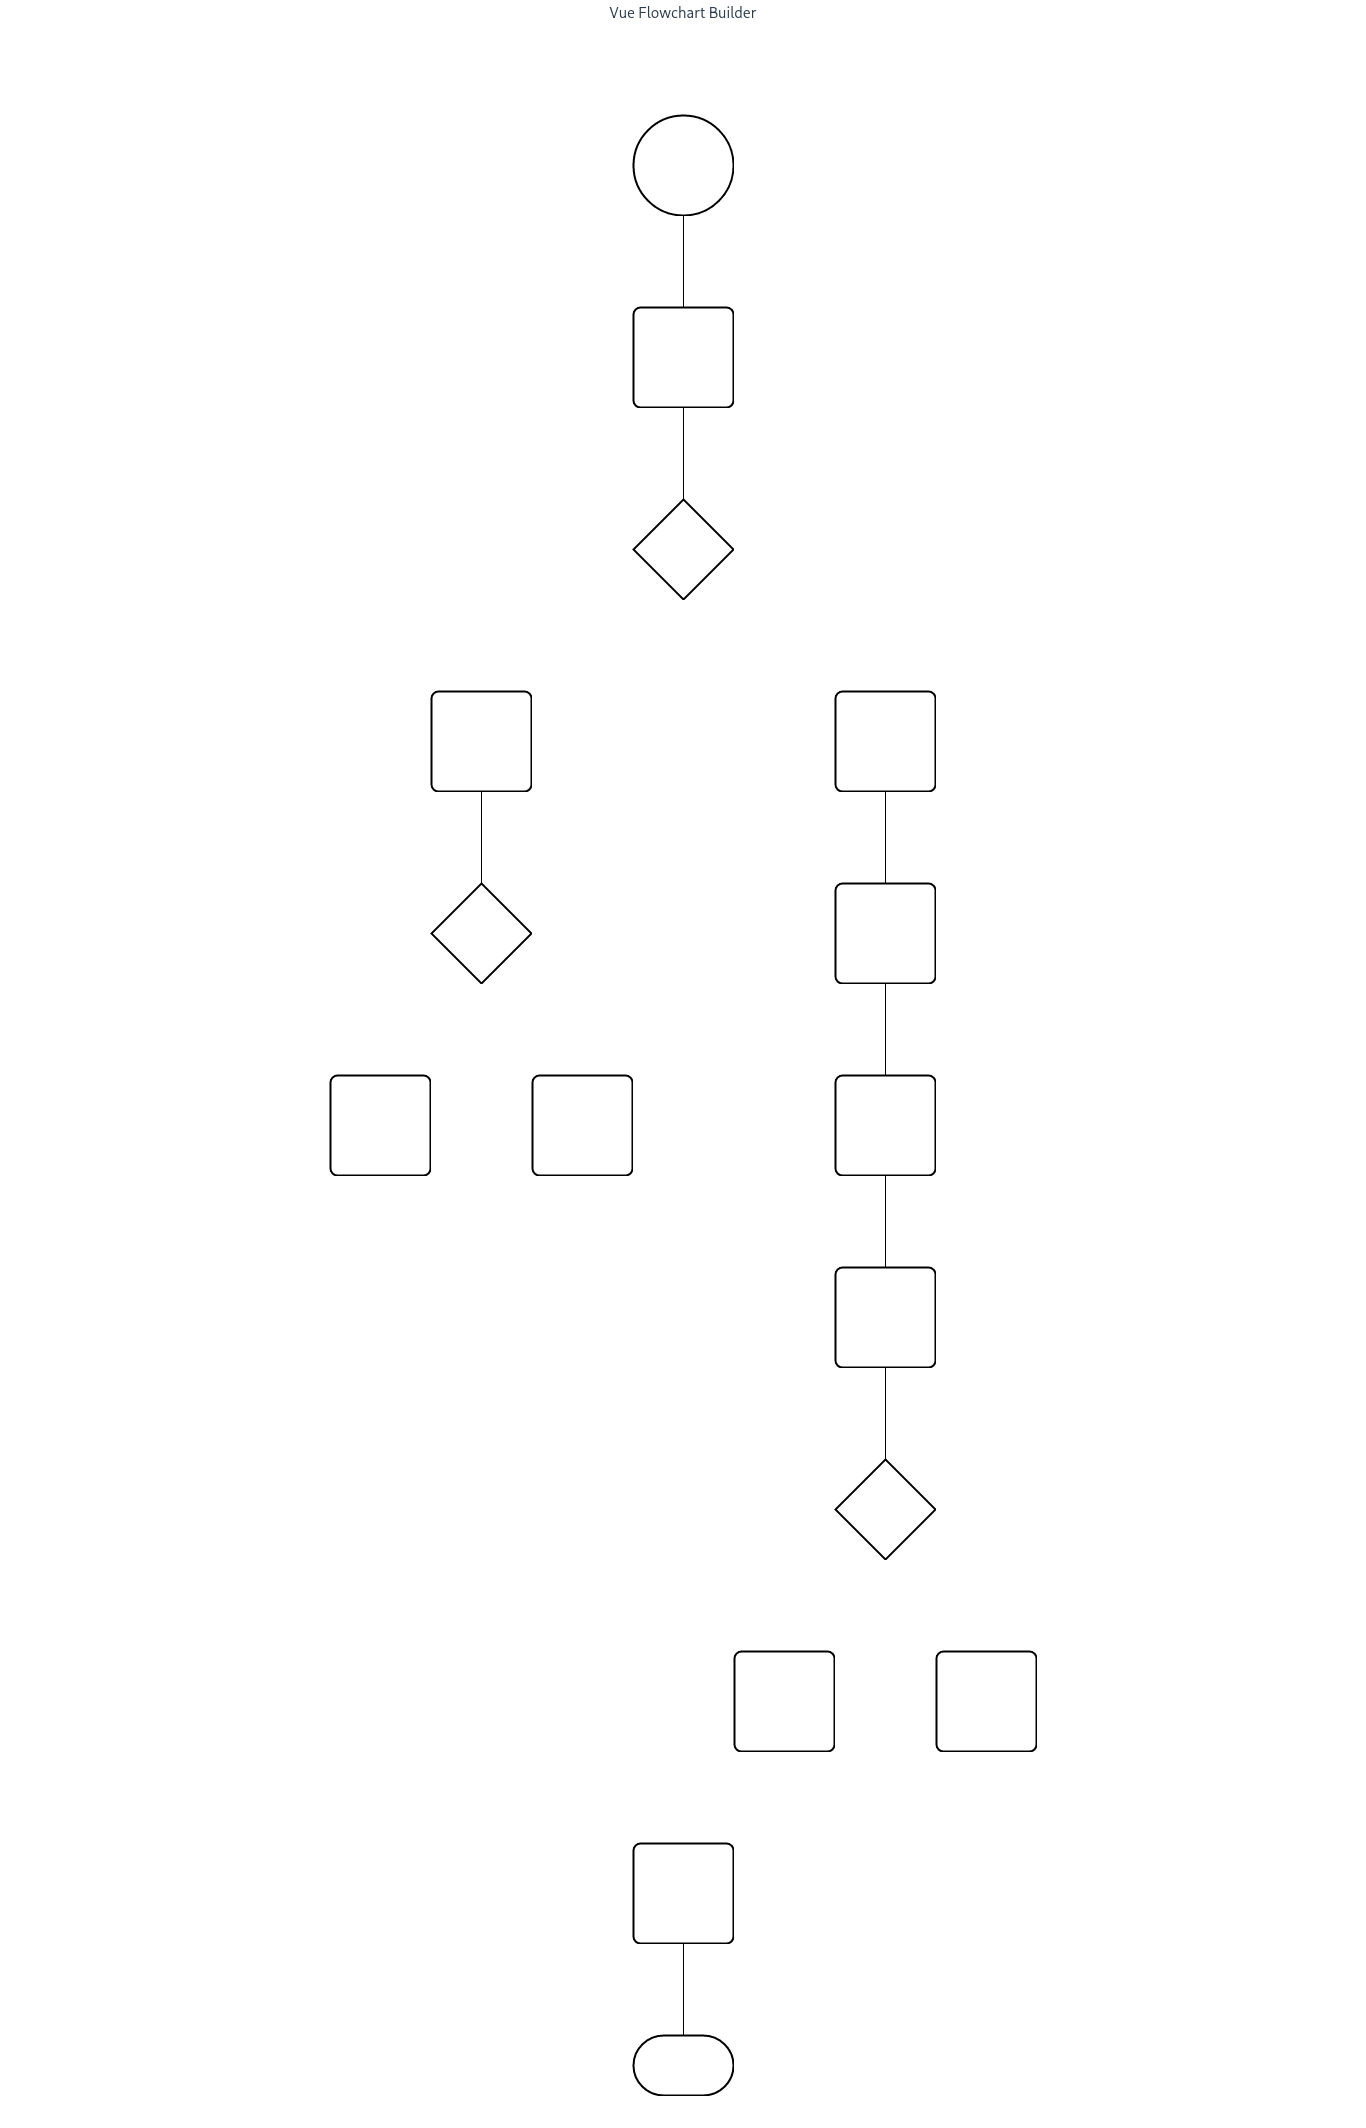
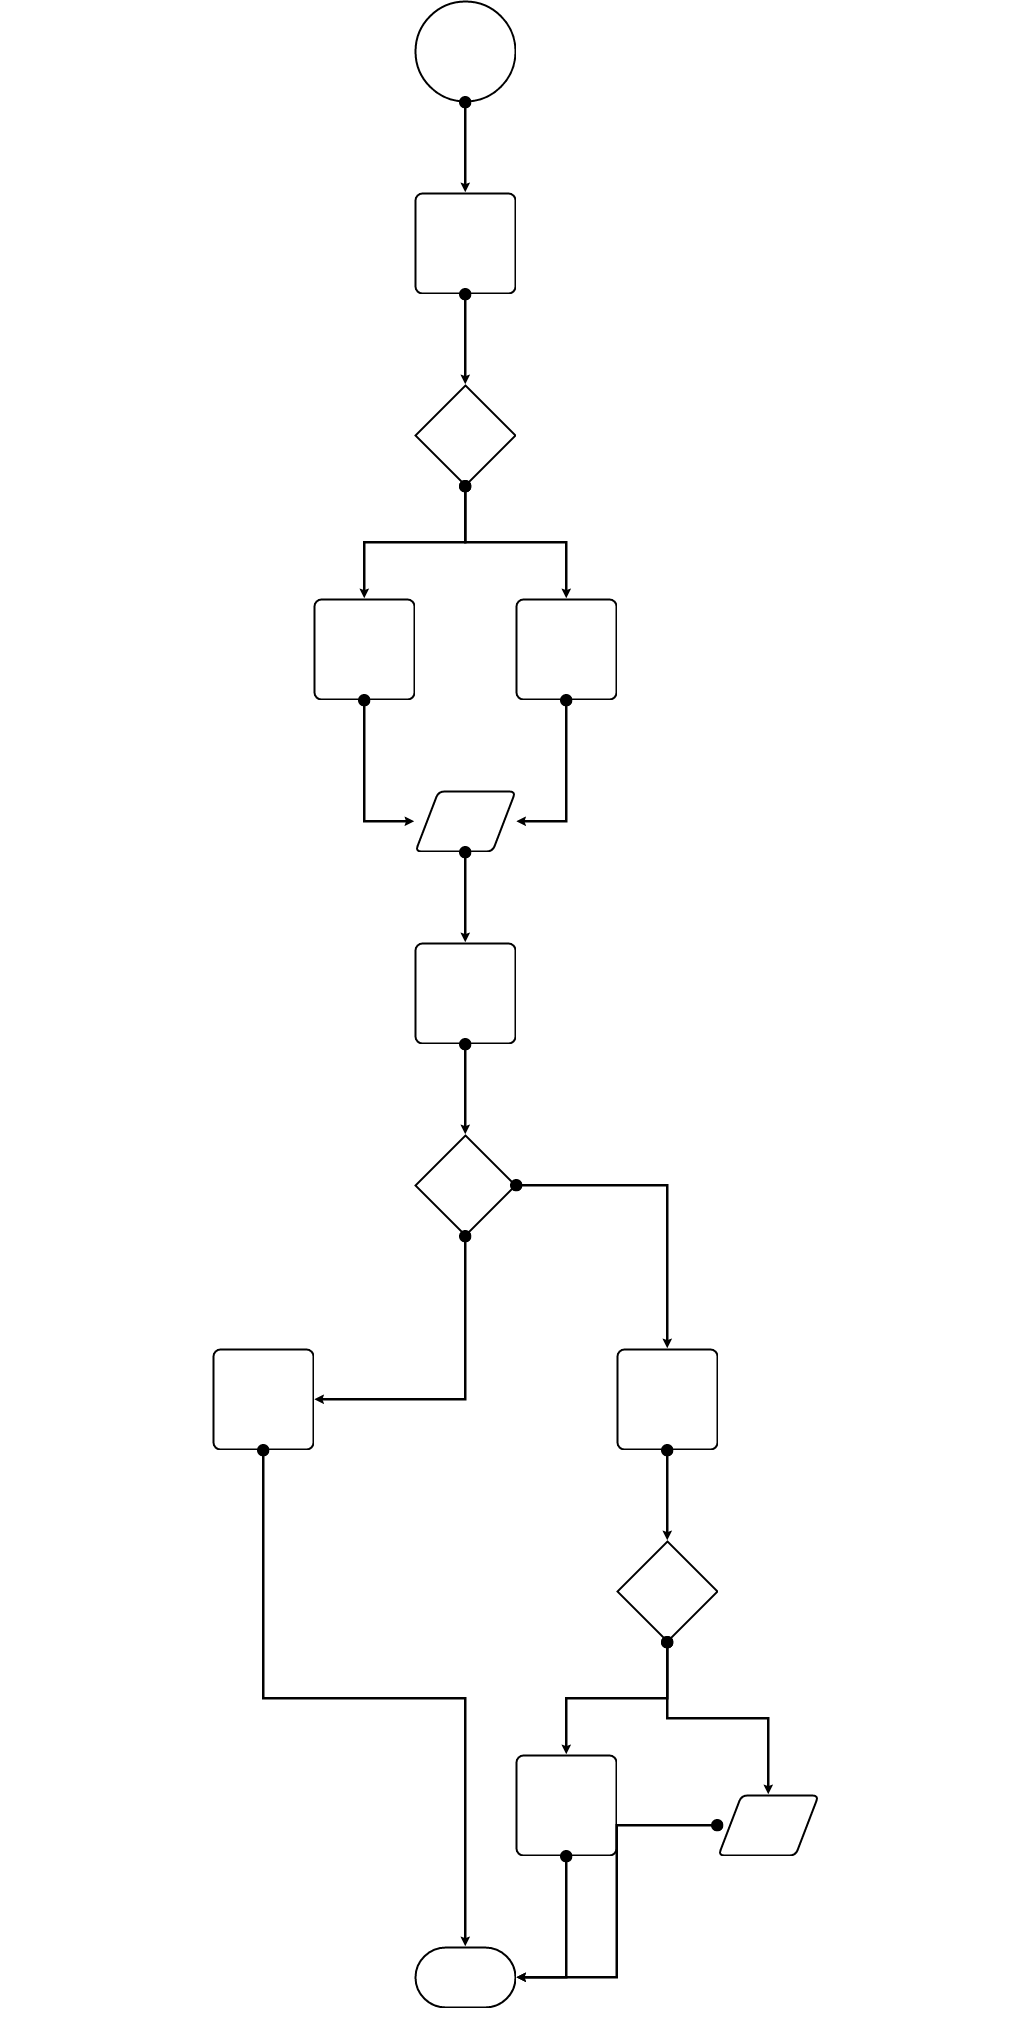
Fix: allow decision/group to add siblings, update readme, screenshot

diff --git a/src/components/FlowGroup.vue b/src/components/FlowGroup.vue
@@ -1,5 +1,5 @@
 <script setup>
-import { markRaw, toRefs, onMounted } from "vue";
+import { markRaw, toRefs } from "vue";
 import { v4 as uuidv4 } from "uuid";
 
 import { SYMBOLTYPES } from "@/helpers/const/SymbolTypes";
@@ -27,8 +27,14 @@ const props = defineProps({
   isGroupSiblingContainer: Boolean,
 });
 
-const emit = defineEmits(["update:schema", "remove-sibling-group", "remove-children-group", "add-children-group"]);
-
+const emit = defineEmits([
+  "update:schema",
+  "remove-sibling-group",
+  "remove-children-group",
+  "add-children-group",
+  "add-group",
+  "add-sibling",
+]);
 const { schema, isGroupSiblingContainer, index } = toRefs(props);
 
 const addSibling = ({ singleSchema, options }) => {
@@ -53,7 +59,7 @@ const addSibling = ({ singleSchema, options }) => {
     emit("update:schema", updated_schema);
     return;
   }
-  // otherwise
+
   updated_schema.sibling.splice(options.index + 1, 0, singleSchema);
   emit("update:schema", updated_schema);
 };
@@ -131,7 +137,7 @@ const removeChildrenGroup = (itemIndex) => {
 };
 
 // add children for the current group type (happens in the current component/ not delegated)
-const addChildrenGroupLocal = ({ symbolType }) => {
+const addChildrenLocal = ({ symbolType }) => {
   const group = {
     type: "group",
     schema: {
@@ -155,6 +161,46 @@ const addChildrenGroupLocal = ({ symbolType }) => {
     updated_schema.children.push(single);
   }
   emit("update:schema", updated_schema);
+};
+
+// delegate/emit event one step above (or it's parent)
+const addSiblingLocal = ({ symbolType }) => {
+  const options = {
+    schema: props.schema,
+    index: props.index,
+    type: props.type,
+    depth: props.depth,
+  };
+
+  const single = {
+    type: "single",
+    schema: {
+      symbol: symbolType,
+      id: uuidv4(),
+    },
+  };
+  emit("add-sibling", { singleSchema: single, options });
+};
+
+// delegate/emit event one step above (or it's parent)
+const addGroupLocal = ({ symbolType }) => {
+  const options = {
+    schema: props.schema,
+    index: props.index,
+    type: props.type,
+    depth: props.depth,
+  };
+
+  const group = {
+    type: "group",
+    schema: {
+      symbol: symbolType,
+      id: uuidv4(),
+      children: [],
+    },
+  };
+
+  emit("add-group", { groupSchema: group, options });
 };
 
 // delegates the deletion to parent
@@ -217,10 +263,19 @@ const getSymbol = (type) => {
         <div v-if="schema.symbol == 'main-container'">Vue Flowchart Builder</div>
 
         <div class="options-menu" v-if="depth > 0">
-          <div class="menu-item" @click="addChildrenGroupLocal({ symbolType: 'process' })">Process</div>
-          <div class="menu-item" @click="addChildrenGroupLocal({ symbolType: 'io' })">IO</div>
-          <div class="menu-item" @click="addChildrenGroupLocal({ symbolType: 'data' })">Data</div>
-          <div class="menu-item" @click="addChildrenGroupLocal({ symbolType: 'decision' })">Decision</div>
+          <div>Children(main axis)</div>
+          <div class="menu-item" @click="addChildrenLocal({ symbolType: 'process' })">Process</div>
+          <div class="menu-item" @click="addChildrenLocal({ symbolType: 'io' })">IO</div>
+          <div class="menu-item" @click="addChildrenLocal({ symbolType: 'data' })">Data</div>
+          <div class="menu-item" @click="addChildrenLocal({ symbolType: 'decision' })">Decision</div>
+
+          <div class="options-menu options-menu-sibling" v-if="depth > 0">
+            <div>Sibling(cross axis)</div>
+            <div class="menu-item" @click="addSiblingLocal({ symbolType: 'process' })">Process</div>
+            <div class="menu-item" @click="addSiblingLocal({ symbolType: 'io' })">IO</div>
+            <div class="menu-item" @click="addSiblingLocal({ symbolType: 'data' })">Data</div>
+            <div class="menu-item" @click="addGroupLocal({ symbolType: 'decision' })">Decision</div>
+          </div>
         </div>
       </div>
     </div>

diff --git a/src/App.vue b/src/App.vue
@@ -1,5 +1,5 @@
 <script setup>
-import { onMounted, watch } from "vue";
+import { nextTick, ref, watch } from "vue";
 import FlowGroup from "./components/FlowGroup.vue";
 import LeaderLine from "vue3-leaderline";
 
@@ -18,55 +18,78 @@ const lineOptions = {
   // dropShadow: true,
 };
 
-watch(
-  () => newSchema.mySchema,
-  (schema) => {
-    let edges = [];
+const edges = ref([]);
 
-    schema.sibling.forEach((sibling) => {
-      let edge = recursiveEdgeBuilder(sibling);
-      if (Array.isArray(edge)) {
-        edges = [...edges, ...edge];
-      } else {
-        edges.push(recursiveEdgeBuilder(sibling));
-      }
+const deleteArrows = () => {
+  for (let edge of edges.value) {
+    if (edge) edge.remove();
+  }
+};
+
+const buildArrows = async () => {
+  deleteArrows();
+  newSchema.mySchema.sibling.forEach((sibling) => {
+    let edge = recursiveEdgeBuilder(sibling);
+    if (Array.isArray(edge)) {
+      edges.value = [...edges.value, ...edge];
+    } else {
+      edges.value.push(recursiveEdgeBuilder(sibling));
+    }
+  });
+
+  edges.value = edges.value.map((edge) => {
+    if (!edge || !edge.start || !edge.end) return;
+    if (!document.getElementById(edge.end)) return;
+    if (!document.getElementById(edge.start)) return;
+
+    return new LeaderLine({
+      start: document.getElementById(edge.start),
+      end: document.getElementById(edge.end),
+      ...lineOptions,
     });
+  });
+  edges.value = edges.value.filter(Boolean);
+};
 
-    // NOTE: only for testing
-    setTimeout(() => {
-      edges.forEach((edge) => {
-        if (!edge) return;
-        if (!edge.start) return;
-        if (!edge.end) return;
-        if (!document.getElementById(edge.end)) return;
-        if (!document.getElementById(edge.start)) return;
+// watch(
+//   () => newSchema.mySchema,
+//   async (schema) => {
+//     deleteArrows();
+//
+//     schema.sibling.forEach((sibling) => {
+//       let edge = recursiveEdgeBuilder(sibling);
+//       if (Array.isArray(edge)) {
+//         edges.value = [...edges.value, ...edge];
+//       } else {
+//         edges.value.push(recursiveEdgeBuilder(sibling));
+//       }
+//     });
+//
+//     // NOTE: only for testing
+//     await nextTick();
+//     edges.value = edges.value.map((edge) => {
+//       if (!edge || !edge.start || !edge.end) return;
+//       if (!document.getElementById(edge.end)) return;
+//       if (!document.getElementById(edge.start)) return;
+//
+//       return new LeaderLine({
+//         start: document.getElementById(edge.start),
+//         end: document.getElementById(edge.end),
+//         ...lineOptions,
+//       });
+//     });
+//     edges.value = edges.value.filter(Boolean);
+//   },
+//   { immediate: true },
+// );
 
-        new LeaderLine({
-          start: document.getElementById(edge.start),
-          end: document.getElementById(edge.end),
-          ...lineOptions,
-        });
-      });
-    }, 200);
-  },
-  { immediate: true },
-);
-
-onMounted(async () => {
-  // await nextTick();
-  // edges.forEach((edge) => {
-  //   new LeaderLine({
-  //     start: document.getElementById(edge.start),
-  //     end: document.getElementById(edge.end),
-  //     ...lineOptions,
-  //   });
-  // });
-});
 const debug = false;
 </script>
 
 <template>
   <main>
+    <button @click="buildArrows">Build arrows</button>
+    <button @click="deleteArrows">Delete arrows</button>
     <div
       class="vue-flowchart-builder"
       :class="{

diff --git a/src/components/FlowSibling.vue b/src/components/FlowSibling.vue
@@ -26,8 +26,6 @@ const getComponent = (type) => {
   if (type == SYMBOLTYPES.SINGLE) return flowSingle.value;
 };
 
-// const emit = defineEmits(["update:schema"]);
-
 const getSiblingsOrChildrens = (schema) => {
   if (schema.children) return schema.children;
   if (schema.sibling) return schema.sibling;
@@ -42,19 +40,19 @@ const getSiblingsOrChildrens = (schema) => {
   >
     <component
       v-for="(child, index) in getSiblingsOrChildrens(schema)"
+      v-model:schema="child.schema"
       :key="child.schema.id"
       :is="getComponent(child.type)"
       :type="child.type"
-      v-model:schema="child.schema"
       :index="index"
       :max-depth="maxDepth"
       :depth="depth + 1"
       :is-group-sibling-container="child.type === SYMBOLTYPES.GROUPSIBLINGCONTAINER ? true : false"
       @add-sibling="$parent.addSibling"
+      @add-group="$parent.addGroup"
       @remove-sibling="$parent.removeSibling"
       @remove-sibling-group="$parent.removeSiblingGroup"
       @remove-children-group="$parent.removeChildrenGroup"
-      @add-group="$parent.addGroup"
     />
   </div>
 </template>

diff --git a/src/components/FlowSingle.vue b/src/components/FlowSingle.vue
@@ -40,6 +40,11 @@ const addSibling = ({ symbolType }) => {
   emit("add-sibling", { singleSchema: single, options });
 };
 
+const removeSibling = ({ symbolType }) => {
+  if (symbolType == SYMBOLTYPES.START || symbolType === SYMBOLTYPES.STOP) return;
+  emit("remove-sibling", props.index);
+};
+
 const addGroup = ({ symbolType }) => {
   const options = {
     schema: props.schema,
@@ -58,11 +63,6 @@ const addGroup = ({ symbolType }) => {
   };
 
   emit("add-group", { groupSchema: group, options });
-};
-
-const removeSibling = ({ symbolType }) => {
-  if (symbolType == SYMBOLTYPES.START || symbolType === SYMBOLTYPES.STOP) return;
-  emit("remove-sibling", props.index);
 };
 
 const getSymbol = (type) => {

diff --git a/src/assets/base.css b/src/assets/base.css
@@ -174,6 +174,10 @@ body {
   cursor: pointer;
 }
 
+.group > .symbol .options-menu.options-menu-sibling {
+  padding-top: 20px;
+}
+
 .single > .symbol .symbol-actions,
 .group-head > .symbol .symbol-actions {
   position: absolute;

diff --git a/README.md b/README.md
@@ -9,7 +9,11 @@ Flowchart builder, based on composite-pattern.
 ### TODO
 
 [] update add/remove function to update `.next` property
+
 [] rerender arrows on schema change
-[] add sibling below 'decision'/group types - current implementation adds children's only
+
+[x] add sibling below 'decision'/group types - current implementation adds children's only
+
 [] option to manually set '.next' node
+
 [] tests
